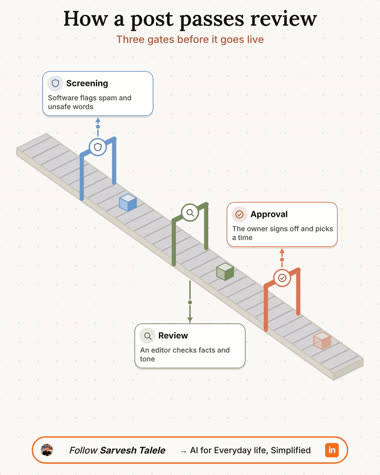
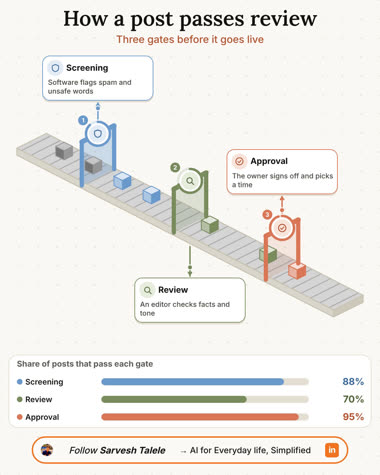
Rebuild conveyor as a data-driven animated infographic; PNG image by default (v2.6.0)
Pass-rate ring gauges, count-up tally bars, boxes that drop off at gates,
default PNG of the complete diagram, Reel big-scene overflow fix.

diff --git a/skills/explainer-studio/engine/gif_conveyor.js b/skills/explainer-studio/engine/gif_conveyor.js
@@ -1,17 +1,27 @@
-// Template "conveyor": an isometric belt that runs corner to corner. Boxes ride it through 3-4 gates, changing colour at each gate; a flat card for every gate sits alternately above and below the belt.
-import { C, E, box, tx, enter, seg, eo, icon } from './kit.js';
-import { PAL, scene, header, footer, finish, reveal, flow, node, layer, TOP, BOTTOM } from './gif_common.js';
-import { mix, rayRect, uniformSub } from './gif_3d.js';
+// Template "conveyor" (v2, data-driven): an isometric belt through 3-4 gates. Every gate has a pass rate (ring gauge on the gate, count-up bar in the tally panel);
+// boxes ride the belt, turn the gate's colour when they pass, and the share that fails drops off the belt at that gate. Everything is a pure function of time.
+// Dataviz choices (animated-infographic practice): staged reveal, count-up numbers, progress ring + bar for the same value, motion that encodes data (who drops off), one accent per gate.
+import { C, E, box, tx, enter, seg, eo, icon, measure } from './kit.js';
+import { PAL, scene, header, footer, finish, reveal, flow, node, layer, TOP } from './gif_common.js';
+import { mix, uniformSub } from './gif_3d.js';
 import { svgNS } from './kit.js';
 
 const el = (g, tag, a) => { const e = document.createElementNS(svgNS, tag); for (const k in a) e.setAttribute(k, a[k]); g.appendChild(e); return e; };
 const poly = (g, pts, fill, stroke, sw = 3) => el(g, 'polygon', { points: pts.map(q => q.map(v => v.toFixed(1)).join(',')).join(' '), fill, stroke: stroke || 'none', 'stroke-width': sw, 'stroke-linejoin': 'round' });
+const NCUBE = 10, RANK = [3, 7, 1, 9, 5, 0, 8, 2, 6, 4];                                      // rank decides which boxes fail first: fixed, so every render is identical
+const parseStat = v => { const m = /^(\D*?)(\d[\d,]*(?:\.\d+)?)(.*)$/.exec(v); return m ? { pre: m[1], num: parseFloat(m[2].replace(/,/g, '')), dec: (m[2].split('.')[1] || '').length, suf: m[3] } : null; };
+const fmt = (st, k) => st.pre + (st.num * k).toLocaleString('en-US', { minimumFractionDigits: st.dec, maximumFractionDigits: st.dec }) + st.suf;
 
 export function buildConveyor(stage, D) {
   const S = scene(stage, D), V = S.g.conveyor, G = V.gates, n = G.length;
   header(S);
-  const A0 = [90, 400], B0 = [990, 1040], dx = B0[0] - A0[0], dy = B0[1] - A0[1], O = [42, -21], TH = 20, POST = 124, CW = 316, CH = 128;
+  const A0 = [90, 400], B0 = [990, 860], dx = B0[0] - A0[0], dy = B0[1] - A0[1], O = [42, -21], TH = 20, POST = 124, CW = 316, CH = 128, SL = dy / dx;
   const at = f => [A0[0] + dx * f, A0[1] + dy * f], fr = i => (i + .72) / (n + .44);
+  const backY = x => A0[1] + SL * (x - O[0] - A0[0]) + O[1], frontY = x => A0[1] + SL * (x + O[0] - A0[0]) - O[1] + TH;
+  // pass rates -> which boxes fail where
+  const pass = G.map(g => Math.max(0, Math.min(1, (g.stat.pct ?? 100) / 100)));
+  let left = NCUBE; const cut = pass.map(p => { const lose = Math.round(left * (1 - p)); left -= lose; return NCUBE - left; });   // cumulative boxes lost after gate i
+  const failAt = r => cut.findIndex(c => r < c);                                                 // first gate whose cumulative loss reaches this rank (-1: survives)
   // belt
   const belt = el(S.svg, 'g', {}); belt.style.opacity = '0';
   const sa = [A0[0] + O[0], A0[1] + O[1]], sb = [A0[0] - O[0], A0[1] - O[1]], ea = [B0[0] + O[0], B0[1] + O[1]], eb = [B0[0] - O[0], B0[1] - O[1]];
@@ -19,33 +29,69 @@ export function buildConveyor(stage, D) {
   poly(belt, [eb, ea, [ea[0], ea[1] + TH], [eb[0], eb[1] + TH]], mix(C.lineD, .1), C.lineD);
   poly(belt, [sa, ea, eb, sb], mix(C.ink, .82), C.lineD);
   const rollers = []; for (let i = 0; i < 34; i++) rollers.push(el(belt, 'line', { stroke: mix(C.ink, .65), 'stroke-width': 3, 'stroke-linecap': 'round' }));
-  const L = Math.hypot(dx, dy), ROLL = 26;
+  const ROLL = 26;
   S.A.push(u => { belt.style.opacity = String(seg(u, .2, .7)); rollers.forEach((r, i) => { const s = ((i * ROLL + u * 34) % (34 * ROLL)) / (34 * ROLL), p = at(s); r.setAttribute('x1', p[0] + O[0] * .94); r.setAttribute('y1', p[1] + O[1] * .94); r.setAttribute('x2', p[0] - O[0] * .94); r.setAttribute('y2', p[1] - O[1] * .94); }); });
   S.at(.7);
-  // boxes travelling along the belt, behind the gates' bridges
-  const bx = [0, 1, 2].map(() => el(S.svg, 'g', {}));
-  const cube = (g, p, c, s = 24) => { g.replaceChildren(); poly(g, [[p[0] - s, p[1] - s * .5], [p[0], p[1]], [p[0], p[1] + s * 1.1], [p[0] - s, p[1] + s * .6]], mix(c, .45), c, 2.5); poly(g, [[p[0], p[1]], [p[0] + s, p[1] - s * .5], [p[0] + s, p[1] + s * .6], [p[0], p[1] + s * 1.1]], c, c, 2.5); poly(g, [[p[0], p[1] - s], [p[0] + s, p[1] - s * .5], [p[0], p[1]], [p[0] - s, p[1] - s * .5]], mix(c, .78), c, 2.5); };
-  const colors = G.map(g => PAL[g.group].bd), start = mix(C.ink, .55);
-  S.A.push(u => bx.forEach((g, j) => { const f = ((u * .085 + j / 3) % 1), p = at(.04 + f * .92), ps = G.filter((_, i) => f * .92 + .04 > fr(i)).length; cube(g, [p[0], p[1] - 20], ps ? colors[ps - 1] : start); g.style.opacity = String(seg(u, .9, 1.3) * Math.min(1, f * 12) * Math.min(1, (1 - f) * 12)); }));
-  // gates: two posts, a bridge, an icon tile; cards alternate above-right and below-left
-  const ls = layer(S);
-  let t = 1.1;
-  const ss = uniformSub(G, { w: CW - 28, h: CH - 62 - 10, max: 20, min: 15 });
-  const SL = dy / dx, backY = x => A0[1] + SL * (x - O[0] - A0[0]) + O[1], frontY = x => A0[1] + SL * (x + O[0] - A0[0]) - O[1] + TH;
+  // light curtains at the gates (pulse when a box passes), drawn under the boxes
+  const curtains = G.map((gt, i) => { const p = at(fr(i)), bt = [p[0] + O[0] + 4, p[1] + O[1] + 6], ft = [p[0] - O[0] - 4, p[1] - O[1] + 10], cu = poly(S.svg, [bt, ft, [ft[0], ft[1] - POST], [bt[0], bt[1] - POST]], PAL[gt.group].bd, null); cu.style.opacity = '0'; return cu; });
+  // boxes
+  const bx = Array.from({ length: NCUBE }, () => el(S.svg, 'g', {})), marks = Array.from({ length: NCUBE }, () => el(S.svg, 'g', {}));
+  const cube = (g, p, c, s = 24, op = 1) => { g.replaceChildren(); poly(g, [[p[0] - s, p[1] - s * .5], [p[0], p[1]], [p[0], p[1] + s * 1.1], [p[0] - s, p[1] + s * .6]], mix(c, .45), c, 2.5); poly(g, [[p[0], p[1]], [p[0] + s, p[1] - s * .5], [p[0] + s, p[1] + s * .6], [p[0], p[1] + s * 1.1]], c, c, 2.5); poly(g, [[p[0], p[1] - s], [p[0] + s, p[1] - s * .5], [p[0], p[1]], [p[0] - s, p[1] - s * .5]], mix(c, .78), c, 2.5); g.style.opacity = String(op); };
+  const colors = G.map(g => PAL[g.group].bd), start = mix(C.ink, .55), BAD = C.clayD, SPD = .11;
+  const pulse = new Array(n).fill(0);
+  S.A.push(u => {
+    pulse.fill(0);
+    bx.forEach((g, j) => {
+      const f = (((u * SPD) + j / NCUBE) % 1), pos = .04 + f * .92, rk = RANK[j], bad = failAt(rk), rej = bad >= 0 && pos > fr(bad);
+      const ps = G.filter((_, i) => pos > fr(i) && (bad < 0 || i < bad)).length;                       // gates passed (a failed box never passes its failing gate)
+      G.forEach((_, i) => { pulse[i] = Math.max(pulse[i], Math.exp(-Math.pow((pos - fr(i)) / .035, 2))); });
+      const edge = Math.min(1, f * 14) * Math.min(1, (1 - f) * 14) * seg(u, .9, 1.3);
+      const m = marks[j]; m.replaceChildren(); m.style.opacity = '0';
+      if (!rej) { const p = at(pos); cube(g, [p[0], p[1] - 20 - Math.sin((u * 2 + j) * 3) * 1.2], ps ? colors[ps - 1] : start, 24, edge); return; }
+      const k = seg(pos, fr(bad), fr(bad) + .075), q = at(fr(bad) + k * .075), fall = k * k;                // falls off the front edge: slides out, drops, fades
+      cube(g, [q[0] - 54 * k, q[1] - 20 + 34 * k + 120 * fall], BAD, 24 * (1 - .25 * k), edge * (1 - seg(k, .55, 1)));
+      const kk = seg(k, 0, .35) * (1 - seg(k, .6, 1)); if (kk > 0) { const c = at(fr(bad)); m.style.opacity = String(kk); el(m, 'circle', { cx: c[0], cy: c[1] - 44, r: 15, fill: '#fff', stroke: BAD, 'stroke-width': 3.5 }); el(m, 'path', { d: `M${c[0] - 6} ${c[1] - 50} l12 12 M${c[0] + 6} ${c[1] - 50} l-12 12`, stroke: BAD, 'stroke-width': 3.5, 'stroke-linecap': 'round', fill: 'none' }); }
+    });
+    curtains.forEach((cu, i) => { cu.style.opacity = String(seg(u, 1.2 + i, 1.8 + i) * (.07 + .3 * pulse[i])); });
+  });
+  // gates: arch, ring gauge + icon tile, number badge, card with a vertical leader
+  const ls = layer(S), ss = uniformSub(G, { w: CW - 28, h: CH - 62 - 10, max: 20, min: 15 });
+  let t = 1.1; const cardBottoms = [];
   G.forEach((gt, i) => {
     const Pl = PAL[gt.group], p = at(fr(i)), up = i % 2 === 0, g = el(S.svg, 'g', {}); g.style.opacity = '0';
-    const bt = [p[0] + O[0] + 4, p[1] + O[1] + 6], ft = [p[0] - O[0] - 4, p[1] - O[1] + 10], mid = [p[0], (bt[1] + ft[1]) / 2 - POST];     // back foot, front foot, middle of the top bar
+    const bt = [p[0] + O[0] + 4, p[1] + O[1] + 6], ft = [p[0] - O[0] - 4, p[1] - O[1] + 10], mid = [p[0], (bt[1] + ft[1]) / 2 - POST];
     for (const f of [bt, ft]) el(g, 'line', { x1: f[0], y1: f[1], x2: f[0], y2: f[1] - POST, stroke: Pl.bd, 'stroke-width': 12, 'stroke-linecap': 'round' });
     el(g, 'line', { x1: bt[0], y1: bt[1] - POST, x2: ft[0], y2: ft[1] - POST, stroke: Pl.bd, 'stroke-width': 14, 'stroke-linecap': 'round' });
-    const tile = E(S.root, 'abs', `left:${mid[0] - 26}px;top:${mid[1] - 26}px;width:52px;height:52px;border-radius:50%;background:#fff;border:4px solid ${Pl.bd};display:flex;align-items:center;justify-content:center;opacity:0;box-sizing:border-box`, icon(gt.icon, 28, Pl.ink, 2.1));
+    const R = 34, CIRC = 2 * Math.PI * R, ring = el(S.svg, 'g', {});                                      // ring gauge: pass rate of this gate
+    el(ring, 'circle', { cx: mid[0], cy: mid[1], r: R, fill: '#fff', stroke: mix(Pl.bd, .8), 'stroke-width': 7 });
+    const arc = el(ring, 'circle', { cx: mid[0], cy: mid[1], r: R, fill: 'none', stroke: Pl.bd, 'stroke-width': 7, 'stroke-linecap': 'round', 'stroke-dasharray': `0 ${CIRC}`, transform: `rotate(-90 ${mid[0]} ${mid[1]})` }); ring.style.opacity = '0';
+    const tile = E(S.root, 'abs', `left:${mid[0] - 25}px;top:${mid[1] - 25}px;width:50px;height:50px;border-radius:50%;background:${Pl.soft};display:flex;align-items:center;justify-content:center;opacity:0;box-sizing:border-box`, icon(gt.icon, 28, Pl.ink, 2.1));
+    const nb = E(S.root, 'abs', `left:${mid[0] - 56}px;top:${mid[1] - 52}px;width:28px;height:28px;border-radius:50%;background:${Pl.bd};color:#fff;font:700 17px/28px Inter,sans-serif;text-align:center;opacity:0`); nb.textContent = String(i + 1);
     const cx0 = Math.min(1056 - CW, Math.max(24, p[0] - CW / 2)); let cy0, y1, y2;
-    if (up) { const bottom = Math.min(mid[1] - 26 - 62, backY(cx0) - 16); cy0 = bottom - CH; y1 = mid[1] - 26 - 6; y2 = bottom + 4; }
+    if (up) { const bottom = Math.max(TOP + 8 + CH, Math.min(mid[1] - R - 6 - 56, backY(cx0) - 16)); cy0 = bottom - CH; y1 = mid[1] - R - 8; y2 = bottom + 4; }
     else { const top = Math.max(frontY(p[0]) + 34, frontY(cx0 + CW) + 16); cy0 = top; y1 = frontY(p[0]) + 8; y2 = top - 4; }
-    reveal(S, g, t, { sc: 1, dy: 18, d: .5 }); reveal(S, tile, t + .25, { d: .35 });
+    cardBottoms.push(cy0 + CH);
+    reveal(S, g, t, { sc: 1, dy: 18, d: .5 }); S.A.push(u => { ring.style.opacity = String(seg(u, t + .15, t + .45)); arc.setAttribute('stroke-dasharray', `${CIRC * pass[i] * eo(seg(u, t + .4, t + 1.3))} ${CIRC}`); });
+    reveal(S, tile, t + .25, { d: .35 }); reveal(S, nb, t + .3, { d: .3 });
     flow(S, `M${p[0]} ${y1} L${p[0]} ${y2}`, Pl.bd, { t0: t + .55, dur: .45, w: 4, head: 13, svg: ls });
     const c = node(S, 'c' + i, { x: cx0, y: cy0, w: CW, h: CH, title: gt.title, sub: gt.sub, ic: gt.icon, group: gt.group, tsize: 24, ssize: ss });
     reveal(S, c, t + .85, { dy: 12 }); t += 1.0;
   });
+  // tally panel: one bar per gate, same value as the ring, numbers count up
+  const py = Math.round(Math.max(Math.max(...cardBottoms) + 22, 1216 - (58 + n * 50))), ph = 1216 - py, rh = Math.min(52, Math.floor((ph - 58) / n));
+  const panel = box(S.root, { x: 24, y: py, w: 1032, h: ph, r: 26, fill: '#fff', bd: C.line, bw: 2.5, shadow: false });
+  tx(panel, 'tally', V.tally, { x: 22, y: 8, w: 900, h: 34, size: 23, weight: 700, color: C.mid });
+  const TX = 262, TW = 590, tt0 = t + .2;
+  G.forEach((gt, i) => {
+    const Pl = PAL[gt.group], ry = 50 + i * rh, st = parseStat(gt.stat.value);
+    E(panel, 'abs', `left:22px;top:${ry + (rh - 16) / 2}px;width:16px;height:16px;border-radius:50%;background:${Pl.bd}`);
+    tx(panel, 'tl' + i, gt.title, { x: 46, y: ry, w: 205, h: rh, size: 22, weight: 600 });
+    E(panel, 'abs', `left:${TX}px;top:${ry + (rh - 20) / 2}px;width:${TW}px;height:20px;border-radius:10px;background:${C.line}`);
+    const fill = E(panel, 'abs', `left:${TX}px;top:${ry + (rh - 20) / 2}px;width:${Math.round(TW * pass[i])}px;height:20px;border-radius:10px;background:${Pl.bd};transform-origin:0 50%;transform:scaleX(0)`);
+    const val = tx(panel, 'tv' + i, gt.stat.value, { x: TX + TW + 14, y: ry, w: 1032 - (TX + TW + 14) - 22, h: rh, size: 27, weight: 700, color: Pl.ink, align: 'right' }), span = val.firstChild;
+    S.A.push(u => { const k = eo(seg(u, tt0 + i * .35, tt0 + i * .35 + .9)); fill.style.transform = `scaleX(${k})`; if (st) span.textContent = fmt(st, k); });
+  });
+  reveal(S, panel, t, { dy: 16, d: .5 }); S.at(tt0 + (n - 1) * .35 + .9);
   footer(S);
   return finish(S);
 }

diff --git a/skills/explainer-studio/engine/reel.js b/skills/explainer-studio/engine/reel.js
@@ -128,7 +128,7 @@ function dialog(root, sc) {
 // ── big: one number / phrase ──
 function big(root, sc) {
   const p = sc.props, h = head(root, sc, false), sz = fit(p.big, [[8, 190], [14, 150], [22, 110], [40, 84]]);
-  const bh = est(p.big, sz, 920, 1.05) + 20, b = tx(root, sc.id + '-big', p.big, { x: 80, y: 480, w: 920, h: bh, size: sz, weight: 700, font: 'serif', color: C.clayD, wrap: true, lh: 1.05, align: 'center' });
+  const bh = est(p.big, sz, 920, 1.05) + 20 + Math.round(sz * .16), b = tx(root, sc.id + '-big', p.big, { x: 80, y: 480, w: 920, h: bh, size: sz, weight: 700, font: 'serif', color: C.clayD, wrap: true, lh: 1.05, align: 'center' });
   const s = p.sub ? tx(root, sc.id + '-sub', p.sub, { x: 100, y: 480 + bh + 40, w: 880, h: est(p.sub, 44, 880, 1.25) + 12, size: 44, weight: 500, color: C.ink, wrap: true, lh: 1.25, align: 'center' }) : null;
   return t => { h.anim(t); pop(b, t, when(sc, 0), { sc: .85, dy: 20, d: .7 }); if (s) enter(s, t, when(sc, 1), { dy: 14 }); };
 }

diff --git a/skills/explainer-studio/scripts/studio.py b/skills/explainer-studio/scripts/studio.py
@@ -230,12 +230,17 @@ def build_gif(work, story, lib, env, out, slug):
     os.makedirs(out, exist_ok=True); vid = os.path.join(out, 'gif_video.mp4'); print('[gif] rendering...')
     r = run(['node', os.path.join(lib, 'core/render/video.mjs'), film, '--size', size, '--fps', '10', '--workers', workers(), '--q', 'mode=gif', '--out', vid], cwd=lib, env=env)
     if r.returncode: sys.exit('gif render failed')
+    png = os.path.join(out, f'{slug}-linkedin.png')                      # the complete diagram as one still image: the last full frame before the closing fade (default output)
+    dur_v = float((probe(env, vid, 'format=duration').get('format') or {}).get('duration') or 0)
+    ff_ = shutil.which('ffmpeg', path=env['PATH']) or 'ffmpeg'
+    run([ff_, '-y', '-v', 'error', '-ss', str(max(0.0, dur_v - 2.5)), '-i', vid, '-frames:v', '1', png], env=env, quiet=True)
     fin = os.path.join(out, f'{slug}-linkedin.gif')
     for w, c in ((1080, 128), (900, 128), (800, 96), (720, 96), (640, 64)):  # always 4:5 portrait; width only shrinks to fit 5 MB
         make_gif(vid, fin, w, 10, c, env)
         if os.path.getsize(fin) <= 5 * 1048576: break
     os.remove(vid); mb = os.path.getsize(fin) / 1048576; print(f'[gif] done -> {fin} ({w}px, {mb:.1f} MB)')
-    return {'file': fin, 'mb': round(mb, 2), 'width': w, 'template': g['template'], 'gates': {'readcheck': not bad, 'layout': True, 'size<=5MB': mb <= 5.0}}
+    if os.path.isfile(png): print(f'[image] done -> {png} (1080x1350 PNG, the complete diagram)')
+    return {'image': png if os.path.isfile(png) else None, 'file': fin, 'mb': round(mb, 2), 'width': w, 'template': g['template'], 'gates': {'readcheck': not bad, 'layout': True, 'size<=5MB': mb <= 5.0}}
 
 def build(a):
     work = os.path.abspath(a.dir); ok, story, chunks, rep = do_check(work, quiet=False)
@@ -309,6 +314,7 @@ def review(a):
         G['reel.speech_matches_script'] = sp == 'verified'
         times = [round(dur * x, 2) for x in (.06, .2, .35, .5, .65, .8, .95)]; sheet(env, f, times, os.path.join(rd, 'reel_sheet.png'), 270)
     if 'post' in B: pf = os.path.join(out, f'{story["meta"]["slug"]}-linkedin-post.txt'); files.append(pf); G['post.exact_cta_lines'] = all(l in open(pf, encoding='utf-8').read() for l in brand()['post_cta'])
+    files = files + [x['image'] for x in B.values() if isinstance(x, dict) and x.get('image') and x['image'] not in files]   # the PNG is part of what is attested
     token = hashlib.sha256((sha(os.path.join(work, 'story.json')) + ''.join(sha(x) for x in sorted(files))).encode()).hexdigest()[:12]
     bad = [k for k, v in G.items() if v is not True]; pct = round(100 * (len(G) - len(bad)) / max(1, len(G)))
     rep_ = {'gates': G, 'passed': len(G) - len(bad), 'total': len(G), 'confidence_pct': pct, 'token': token, 'sheets': [x for x in ('gif_sheet.png', 'reel_sheet.png') if os.path.exists(os.path.join(rd, x))]}; dump(rep_, os.path.join(rd, 'gates.json'))
@@ -327,7 +333,7 @@ def finalize(a):
     if not os.path.exists(at): print('REFUSED: out/review/attest.json missing (look at the sheets, then write it)'); return 1
     A = load(at); need = ('text_legible', 'nothing_overlaps_or_clipped', 'matches_source', 'arrows_follow_the_logic')
     story = load(os.path.join(work, 'story.json')); B = load(os.path.join(out, 'build.json'))['artifacts']
-    files = [x['file'] for x in B.values() if isinstance(x, dict) and 'file' in x]; slug = story['meta']['slug']; pf = os.path.join(out, f'{slug}-linkedin-post.txt')
+    files = [x['file'] for x in B.values() if isinstance(x, dict) and 'file' in x] + [x['image'] for x in B.values() if isinstance(x, dict) and x.get('image')]; slug = story['meta']['slug']; pf = os.path.join(out, f'{slug}-linkedin-post.txt')
     if 'post' in B: files.append(pf)
     cur = hashlib.sha256((sha(os.path.join(work, 'story.json')) + ''.join(sha(x) for x in sorted(files))).encode()).hexdigest()[:12]
     if cur != R['token']: print('REFUSED: outputs changed since review; run studio.py review again'); return 1

diff --git a/skills/explainer-studio/scripts/validate_story.py b/skills/explainer-studio/scripts/validate_story.py
@@ -34,7 +34,7 @@ SPEC = {
     'orbit': 'a glossy core with tilted 3D rings and 4-6 cards around it: gif.orbit{hub{title<=22,sub?<=24},items[4-6]{title<=24,sub<=44,icon,group}}',
     'tower': 'isometric cutaway building, one room per floor with a small scene (stack, process, levels): gif.tower{hub{title<=26},floors[3-5]{title<=22,sub<=50,icon,group,scene}} (top floor first); scene in SCENES list',
     'skyline': 'isometric city, tower height shows a ranking or size: gif.skyline{buildings[3-5]{title<=20,sub<=44,value<=6 chars,size 1-10,icon,group}}',
-    'conveyor': 'isometric belt through 3-4 gates (processing, review, hand-off): gif.conveyor{gates[3-4]{title<=22,sub<=50,icon,group}} (first gate first)',
+    'conveyor': 'isometric belt through 3-4 gates (processing, review, hand-off): gif.conveyor{tally<=34 (panel heading),gates[3-4]{title<=22,sub<=50,icon,group,stat{value<=8 e.g. "88%",pct 0-100 = share passing}}} (first gate first)',
     'stairs': 'isometric blocks climbing left to right (levels, stages, maturity): gif.stairs{steps[3-5]{title<=22,sub<=50,icon,group}} (lowest first)',
     'ecosystem': 'one core fanning out to 3-5 sections with rails: gif.ecosystem{hub{title<=22,sub?<=24,icon?},sections[3-5]{label<=22,icon,group,items[2-3]{title<=24,sub<=50}}}',
     'framework': 'a framework as 6|9 mini-diagram cards + takeaways: gif.framework{takeaways_title?,cards[6|9]{title<=26,body<=96,icon,group,caption?<=40,viz{type,root?,items}},takeaways[3-5]{title<=24,body<=44,icon}}; viz.type steps(2-4; <=14 chars, <=8 when 3) stack(2-3,<=16) tree(root<=22 + 2-3, <=14, <=9 when 3) fan(root<=9 + 2-3,<=16) table(2-4 rows "a|b|c"; cells <=10 with 3 columns, <=16 with 2)',
@@ -249,7 +249,13 @@ def v_skyline(v, g, icons):
         if not isinstance(b, dict): continue
         _S(v, f'gif.skyline.buildings[{i}].value', b.get('value'), 1, 6)
         if not (isinstance(b.get('size'), int) and not isinstance(b.get('size'), bool) and 1 <= b['size'] <= 10): v.e(f'gif.skyline.buildings[{i}].size must be an integer 1-10')
-def v_conveyor(v, g, icons): _nodes(v, 'gif.conveyor.gates', g.get('conveyor', {}).get('gates'), 3, 4, 22, 50, icons)
+def v_conveyor(v, g, icons):
+    C_ = g.get('conveyor', {}); _S(v, 'gif.conveyor.tally', C_.get('tally'), 8, 34); G_ = C_.get('gates'); _nodes(v, 'gif.conveyor.gates', G_, 3, 4, 22, 50, icons)
+    for i, x in enumerate(G_ if isinstance(G_, list) else []):
+        st = x.get('stat') if isinstance(x, dict) else None
+        if not isinstance(st, dict): v.e(f'gif.conveyor.gates[{i}].stat must be {{"value":"88%","pct":88}} (the share that passes this gate, taken from the source)'); continue
+        _S(v, f'gif.conveyor.gates[{i}].stat.value', st.get('value'), 1, 8)
+        if not (isinstance(st.get('pct'), (int, float)) and not isinstance(st.get('pct'), bool) and 0 <= st['pct'] <= 100): v.e(f'gif.conveyor.gates[{i}].stat.pct must be a number 0-100')
 def v_gif(v, g, icons):
     G = SPEC['gif']; tpl = g.get('template', 'hub')
     if tpl not in TEMPLATES: v.e('gif.template must be ' + '|'.join(TEMPLATES)); return

diff --git a/skills/explainer-studio/scripts/pick.py b/skills/explainer-studio/scripts/pick.py
@@ -47,7 +47,7 @@ SKELETON = {
  'orbit': _G % 'orbit' + '"orbit":{"hub":{"title":"…","sub":"…"},"items":[{"title":"…","sub":"…","icon":"icon","group":"blue"} x4-6]}}',
  'tower': _G % 'tower' + '"tower":{"hub":{"title":"…"},"floors":[{"title":"…","sub":"…","icon":"icon","group":"blue","scene":"screen|chart|chat|docs|gears|checklist|search|shield|cloud|people|rocket|database|bulb|target"} x3-5]}}',
  'skyline': _G % 'skyline' + '"skyline":{"buildings":[{"title":"…","sub":"…","value":"…","size":5,"icon":"icon","group":"blue"} x3-5]}}',
- 'conveyor': _G % 'conveyor' + '"conveyor":{"gates":[{"title":"…","sub":"…","icon":"icon","group":"blue"} x3-4]}}',
+ 'conveyor': _G % 'conveyor' + '"conveyor":{"tally":"…","gates":[{"title":"…","sub":"…","icon":"icon","group":"blue","stat":{"value":"88%","pct":88}} x3-4]}}',
  'stairs': _G % 'stairs' + '"stairs":{"steps":[{"title":"…","sub":"…","icon":"icon","group":"blue"} x3-5]}}',
  'ecosystem': _G % 'ecosystem' + '"ecosystem":{"hub":{"title":"…","sub":"…","icon":"icon"},"sections":[{"label":"…","icon":"icon","group":"blue","items":[%s x2-3]} x3-5]}}' % _I,
  'framework': _G % 'framework' + '"framework":{"cards":[{"title":"…","body":"…","icon":"icon","group":"blue","caption":"…","viz":{"type":"steps|stack|tree|fan|table","root":"…(tree,fan)","items":["…" x2-4]}} x6|9],"takeaways":[{"title":"…","body":"…","icon":"icon"} x3-5]}}',

diff --git a/README.md b/README.md
@@ -10,7 +10,7 @@ Add a narrated Reel or a LinkedIn post only when you want them.
 [Quick start](#quick-start) · [Diagrams](#the-six-diagrams) · [Customise the CTA and hook](docs/CUSTOMIZE.md) · [How it works](#how-it-works) · [Docs](#documentation) · [Contributing](CONTRIBUTING.md)
 
 [![CI](https://github.com/sarveshtalele/content-creation/actions/workflows/ci.yml/badge.svg)](https://github.com/sarveshtalele/content-creation/actions/workflows/ci.yml)
-[![Version](https://img.shields.io/badge/version-2.5.0-D97757)](CHANGELOG.md)
+[![Version](https://img.shields.io/badge/version-2.6.0-D97757)](CHANGELOG.md)
 [![License: MIT](https://img.shields.io/badge/license-MIT-green)](LICENSE)
 ![Platforms](https://img.shields.io/badge/platforms-macOS%20%7C%20Windows%20%7C%20Linux-lightgrey)
 ![Python](https://img.shields.io/badge/python-3.11%20%7C%203.12%20%7C%203.13-3776AB?logo=python&logoColor=white)
@@ -58,7 +58,7 @@ Turning an article into a clean diagram is slow, and AI-made diagrams are often 
 ## Features
 
 - **10 diagram templates**, 6 flat and 4 with 3D motion, picked automatically from the shape of your content
-- **Animated GIF** by default, under 5 MB, looping, in your personal brand
+- **Animated GIF + still PNG** by default: the GIF is under 5 MB and loops; the PNG is the complete diagram as one image (1080x1350). Both in your personal brand
 - **Narrated Reel** (1080x1920 MP4, offline male voice, 90 seconds or less) on request
 - **LinkedIn post** with a hook question, arrow bullets, link and your closing CTA on request
 - **Review gate** with Playwright layout checks (overflow, overlap, empty cards) and speech-to-text verification of the voice
@@ -86,7 +86,7 @@ You paste an article, essay, URL or GitHub repo. The plugin reads it once, **pic
 
 | You say | You get |
 |---|---|
-| *"Make a LinkedIn diagram from this"* (or just paste a source) | 1 GIF, 1080x1350, animated |
+| *"Make a LinkedIn diagram from this"* (or just paste a source) | 1 GIF (animated) + 1 PNG (the complete diagram), 1080x1350 |
 | *"...and a video"* / *"make a Reel"* | + narrated 1080x1920 MP4, subtitles, poster |
 | *"...and a post"* | + LinkedIn post with arrow bullets, link, closing CTA |
 
@@ -135,7 +135,7 @@ Tell your agent what you want and paste the source:
 > *Make a Reel from this article* (male narrator, 90 seconds or less)
 > *GIF and post from this essay*
 
-If you give a source and no artifact, you get the GIF. The agent runs the pipeline in [SKILL.md](skills/explainer-studio/SKILL.md). To drive it yourself:
+If you give a source and no artifact, you get the GIF and its PNG still; the narrated Reel only when you ask. The agent runs the pipeline in [SKILL.md](skills/explainer-studio/SKILL.md). To drive it yourself:
 
 ```bash
 S=skills/explainer-studio/scripts/studio.py
@@ -168,7 +168,7 @@ The plugin chooses one with `studio.py pick` (a deterministic score over the sou
 | **stairs** (3D) | levels or stages that climb | <img src="docs/img/stairs.jpg" width="190"> |
 | **tower** (3D) | a building of floors, each room a small scene | <img src="docs/img/tower.jpg" width="190"> |
 | **skyline** (3D) | a ranking or size comparison as city towers | <img src="docs/img/skyline.jpg" width="190"> |
-| **conveyor** (3D) | items passing through gates, checks or hand-offs | <img src="docs/img/conveyor.jpg" width="190"> |
+| **conveyor** (3D) | items passing through gates, with a pass rate per gate (ring gauges, count-up bars, boxes that drop off) | <img src="docs/img/conveyor.jpg" width="190"> |
 
 Every template shares the header, palette, flowing-dot arrows (the dots travel along each arrow so the diagram reads as a running workflow) and the "Follow Sarvesh Talele" footer. The Claude spark appears only when the source mentions Claude. Details and how to add your own: [docs/TEMPLATES.md](docs/TEMPLATES.md).
 

diff --git a/CHANGELOG.md b/CHANGELOG.md
@@ -1,5 +1,12 @@
 # Changelog
 
+## 2.6.0
+
+- **conveyor rebuilt as a data-driven animated infographic.** Each gate now carries a pass rate (`stat{value,pct}`): a ring gauge on the gate, a count-up bar in a tally panel, a light curtain that pulses when a box passes, and a numbered badge. The boxes encode the data too: the share that fails drops off the belt at its gate with a red mark, survivors take the gate's colour. Techniques: staged reveal, count-up numbers, one value shown twice (ring and bar), motion that carries meaning. `conveyor.tally` is the panel heading.
+- **Image by default.** `studio.py build` now also writes `<slug>-linkedin.png`, the complete diagram as one 1080x1350 still (the last full frame before the closing fade). It is attested and copied by `finalize` with the GIF. The narrated Reel stays on demand (`--artifacts reel`).
+- Fix: Reel "big" scenes could overflow their box for short phrases; the box height now scales with the font size.
+- Added a Reel story to the conveyor fixture so the sample video can be rebuilt.
+
 ## 2.5.0
 
 - Three new 3D "cutaway city" templates, inspired by isometric building-cutaway infographics (layout idea only, no third-party branding):

diff --git a/docs/TEMPLATES.md b/docs/TEMPLATES.md
@@ -16,7 +16,7 @@ All templates draw on a fixed 1080x1350 canvas. Content lives between y=150 (bel
 | `stairs` | levels or stages that climb | `gif.stairs{steps[3-5]{title, sub, icon, group}}` (lowest first) |
 | `tower` | a building of floors, each room a small scene | `gif.tower{hub{title}, floors[3-5]{title, sub, icon, group, scene}}` (top floor first) |
 | `skyline` | a ranking or size comparison | `gif.skyline{buildings[3-5]{title, sub, value, size 1-10, icon, group}}` (value is shown on the roof, e.g. `82%`) |
-| `conveyor` | items passing through gates | `gif.conveyor{gates[3-4]{title, sub, icon, group}}` (first gate first) |
+| `conveyor` | items passing through gates | `gif.conveyor{tally, gates[3-4]{title, sub, icon, group, stat{value, pct}}}` (first gate first; `stat` is the share that passes the gate, taken from the source, e.g. `88%` / `88`) |
 
 `group` is a colour: `blue`, `green`, `clay` or `sand`. Icons come from `studio.py spec --icons`. Every text must reuse the source's words (checked).
 

diff --git a/skills/explainer-studio/SKILL.md b/skills/explainer-studio/SKILL.md
@@ -25,7 +25,9 @@ python3 S/scripts/studio.py review W               # fix failed gates; at 100% L
 python3 S/scripts/studio.py finalize W             # deliver ONLY the files in W/final/
 ```
 
-## GIF (1080x1350, thirteen templates)
+## GIF + PNG (1080x1350, thirteen templates)
+
+`build --artifacts gif` writes the animated GIF and `<slug>-linkedin.png`, the complete diagram as one image. Give the user both. The Reel (MP4) only when asked.
 `pick` chooses: pipeline (steps), columns (categories), lanes (layers), hub (one concept, parts), ecosystem (core -> sections), framework (6|9 parts, each a mini diagram + takeaways), exploded (3D layers pulled apart), isoflow (3D ordered flow), orbit (core with 4-6 around it), stairs (3D levels that climb). Override only if clearly wrong. Reuse the source's own words; icons by meaning (`spec --icons`); fill every slot, keep to the limits.
 
 ## Reel (only if asked; `spec` has limits)

diff --git a/skills/explainer-studio/fixtures/conveyor.md b/skills/explainer-studio/fixtures/conveyor.md
@@ -2,6 +2,8 @@
 
 Here is how a post passes review. Every post moves along a belt with three gates before it goes live.
 
-The first gate is Screening, where software flags spam and unsafe words. The second gate is Review, where an editor checks facts and tone.
+The first gate is Screening, where software flags spam and unsafe words. About 88% of posts pass Screening.
 
-The third gate is Approval, where the owner signs off and picks a time. Only then does the post go live.
+The second gate is Review, where an editor checks facts and tone. Around 70% of the remaining posts pass Review.
+
+The third gate is Approval, where the owner signs off and picks a time. Nearly 95% of reviewed posts pass Approval, and only then does the post go live.
